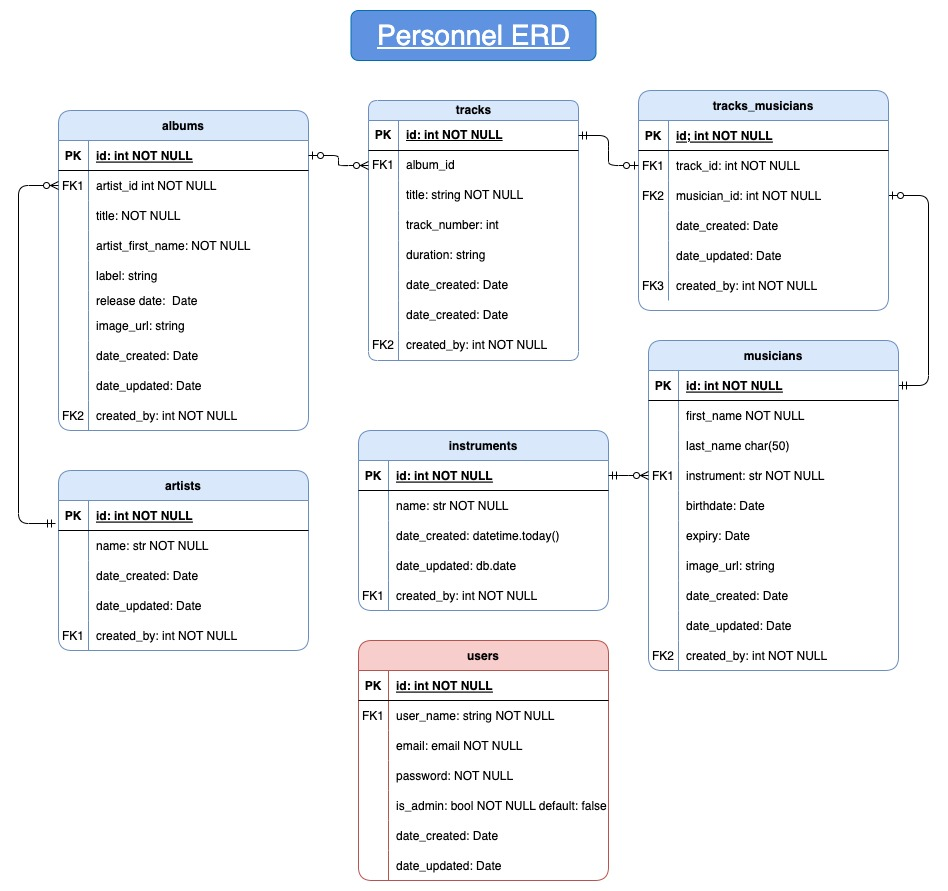
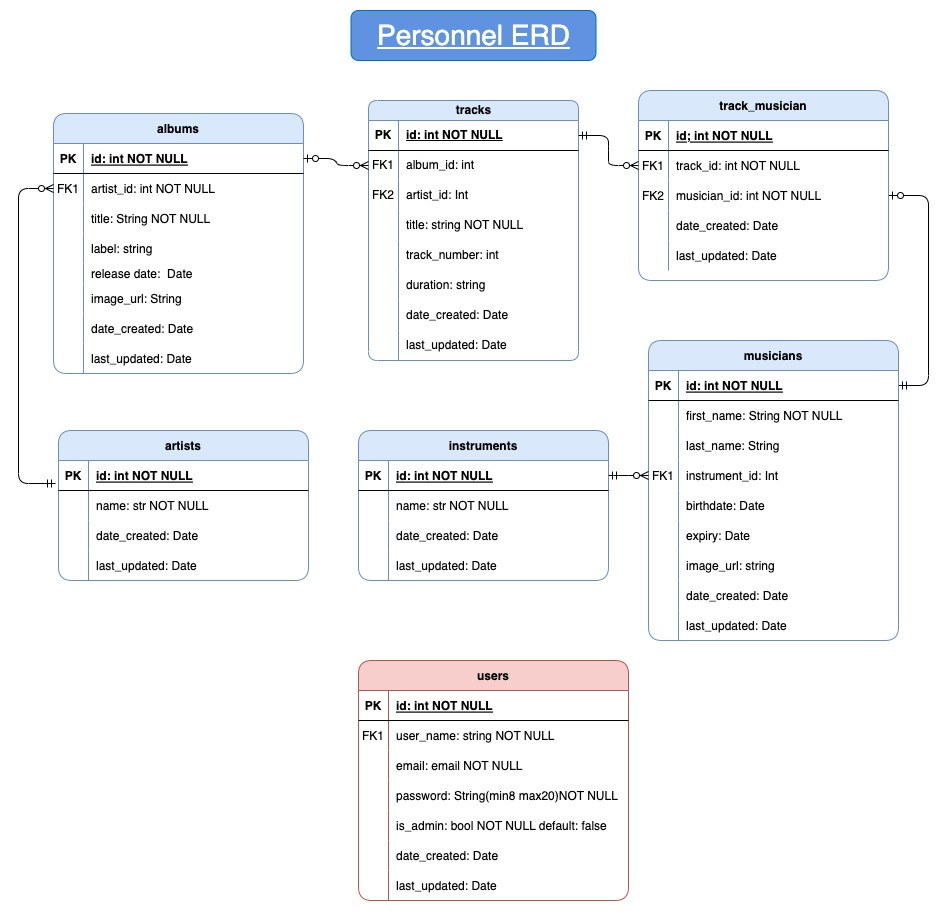
r9 answered

diff --git a/README.md b/README.md
@@ -1,26 +1,29 @@
-
 # **PesonnelAPI**
+
 ## README.md
+
 </br>
 
 ![Record Store by Mick Haupt](./docs/mick-haupt-CbNBjnXXhNg-unsplash.jpg)
-##### *Photo by Mick Haupt (unsplash)*  
+
+##### _Photo by Mick Haupt (unsplash)_
 
 </br>
 
 ### **Contents:**
-1. [Quickstart](#Quickstart)
-1. [Project Purpose](#Project-Purpose-(R1,-R2))
-1. [Why PostgreSQL (R3)](#Why-PostgreSQL-(R3))
-1. [ORM: Benefits and functionality (R4)](#ORM:-Benefits-and-functionality-(R4))
-1. [Endpoints (R5)](#Endpoints-(R5))
-1. [ERD (R6)](#ERD-(R6))
-1. [Third Party Services (R7)](#Third-Party-Services-(R7))
-1. [Project Models (R8)](Project-Models-(R8))
-1. [Database Relations (R9)](Database-Relations-(R9))
-1. [Project Management (R8)](Project-Management-(R10))
 
-### ***Links:***
+1. [Quickstart](#Quickstart)
+1. [Project Purpose (R1, R2)](<#Project-Purpose-(R1,-R2)>)
+1. [Why PostgreSQL (R3)](<#Why-PostgreSQL-(R3)>)
+1. [ORM: Benefits and functionality (R4)](<#ORM:-Benefits-and-functionality-(R4)>)
+1. [Endpoints (R5)](<#Endpoints-(R5)>)
+1. [ERD (R6)](<#ERD-(R6)>)
+1. [Third Party Services (R7)](<#Third-Party-Services-(R7)>)
+1. [Project Models (R8)](<Project-Models-(R8)>)
+1. [Database Relations (R9)](<Database-Relations-(R9)>)
+1. [Project Management (R10)](<Project-Management-(R10)>)
+
+### **Links:**
 
 - #### [Github Repository](https://github.com/bccbass/PersonnelAPI)
 - #### [Trello Project Management](https://trello.com/invite/b/VWm2omOk/ATTI837dd0d277594dd006695995cdfdac5787BC1FFE/personnel-api)
@@ -28,151 +31,158 @@
 
 </br>
 
-
-## ***Quickstart***  
+## **_Quickstart_**
 
 1. Open a new terminal window, run PSQL and create a new PostgreSQL database entitled `personnel`:
-    ```psql
-    ~psql
-    CREATE DATABASE personnel;
-    ```
+   ```psql
+   ~psql
+   CREATE DATABASE personnel;
+   ```
 2. Connect to the new database:
-    ```psql
-    \c personnel
-    ```
+   ```psql
+   \c personnel
+   ```
 3. Create a New User, set a Password and grant all privileges:
-    ```psql
-    CREATE USER <user> WITH PASSWORD <password>;
 
-    GRANT ALL PRIVILEGES ON <database_name> TO <user>;
-    ```
-4. In the main project directory create a ```.env``` file using ```.env.sample```  as a template. 
-    - The Database URI should be formatted as ```Database+adapter://<user>:<password>@<host name>:<port>/<database>```
-        
-        eg: ```
-        DATABASE_URI='postgresql+psycopg2://<YOUR_USER_NAME>:<YOUR_USER_PASSWORD>@localhost:5432/personnel'```
-    - The JWT Secret sould be something secure. 
-        - Hint:
-        generate secret code in the terminal:
-        ```
-            # $ python3 -c 'import secrets; print(secrets.token_hex())'
-        ```
-5. You should now be able to run the bash script from the terminal to create a .venv folder, install requirements, set up the database tables and seed them with sample date: 
-    ```
-    $ bash create_and_seed.sh
-    ```
+   ```psql
+   CREATE USER <user> WITH PASSWORD <password>;
+
+   GRANT ALL PRIVILEGES ON <database_name> TO <user>;
+   ```
+
+4. In the main project directory create a `.env` file using `.env.sample` as a template.
+   - The Database URI should be formatted as `Database+adapter://<user>:<password>@<host name>:<port>/<database>`
+     eg: `
+  DATABASE_URI='postgresql+psycopg2://<YOUR_USER_NAME>:<YOUR_USER_PASSWORD>@localhost:5432/personnel'`
+   - The JWT Secret sould be something secure.
+     - Hint:
+       generate secret code in the terminal:
+     ```
+         # $ python3 -c 'import secrets; print(secrets.token_hex())'
+     ```
+5. You should now be able to run the bash script from the terminal to create a .venv folder, install requirements, set up the database tables and seed them with sample date:
+
+   ```
+   $ bash create_and_seed.sh
+   ```
 
 6. Now that the database and project environments are set up, to run the app from the terminal activate the virtual environment:
-    ```
-    $ source .venv/bin/activate
-    ```
-    and run the program:
-    ```
-    $ flask run
-    ```
-</br>
-</br>
+   `    $ source .venv/bin/activate
+   `
+   and run the program:
+   `    $ flask run
+   `
+   </br>
+   </br>
+
 ### **Project Purpose (R1, R2)**
 
 There is currently no centralized database cataloging all the musicians that performed and contributed to recorded albums. While the information can be searched for on the internet it is usually found in disparate places with varying degrees of accuracy. Because the music industry has largely been driven by profit motive with little incentive to document the artistic product being created a great deal of data is either missing or hard to access. It is only with the privilege of hindsight that the cultaral importance of the contributions of the many side musicians has come into light, as can be seen with many books and documentaries(Muscle Shoals(2013), The Wrecking Crew(2014)) illuminating the seledom visited world of supporting session musicians. The App creates a platform to document musical contributions and query the information in many ways, such as discovering all session musicians that peformed on your favorite song, or listing all of the tracks a given musician played on. The Personnel API seeks to address to the problem of a historical lack of addredidation of musical contributions, important to scholarly and cultural research as well as for its role in providing financial compensation for contributing artists and their heirs. The Personnel API seeks to create a rich ecosystem for music fans and scholarly researchers alike to find information about our musical cultural heritage.
 
+</br>  
+</br>
+
+### **Why PostgreSQL (R3)**
+
+PostgreSQL was used for the Personnel API project because it is an extremely robust relational database management system that excels at both small and production level scale. It has over thirty-five years of support and development by an active community with an extensive set of open source tools, libraries and frameworks. PostgreSQL supports many datatypes with approprate validation and constraints for each. PostgerSQL is adept at promoting data integrity and durability, always implementing ACID (Atomicity, Consistency, Isolation, Durability) transactions, write-ahead logging (WAL) and point-in-time recovery. PostgreSQL query language is extremely powerful with near limitless parameters for retrieving records. It also supports advanced view options which can greatly improve database performance for frequent and complicated queries. Because PostgreSQL is primarily designed for SQL databases it promotes well defined relational data structures that are strongly typed, with many optional constraints and validations ensuring data integrity and robustness. Writing data in PostgreSQL is highly performant due to its implementation of multiversion concurrency control (MVCC), faciliating concurrent and frequent write operations. The Personnel API database leverages a relational model with join tables and multiple relational associations making PostgreSQL a clear frontrunner for creating and managing these associations, facilitating querying and manipulating data with complex interacting relationships. The web-like nature of artistic careers, sometimes spanning decades with myriad interwoven interactions pose a huge challenge to model logically, however PostgreSQL excels at managing a dataset that has a tendency towards repetition. Normalization results in a database with no redundant data, promoting data integrity and conservation of resources with regard to both data storage and performance.
+
+Some drawbacks of PostgreSQL compared to other Database Management Systems: It can be more difficult to set up than other frameworks such as MySQL, posing a larger entry barrier for less experienced developers. While it has faster write speeds than MySQL it has much slower read speeds. Because PostgreSQL creates a new system process for each connected user it has much higher memory usage when multiple users are connected, allocating roughly 10mb per connected user. This poses significant resource requirements when scaling for multiple users. In comparison, MySQL uses a single system process which results in extremely efficient perforamance in read-heavy applications. Additionally, compared to a NoSQL DBMS PostgreSQL requires much more planning and modelling at the outset of the project, and poses more challenges to restructure the database should the scope or needs of the project change throughout production. However this issue is less specific to PostgreSQL itself and more in the scope of an SQL vs NoSQL database debate. After comparing other database options PostgreSQL remained the dbms of choice as the ample documentation, efficient write performance and functionality with regard to data integrity, validation and constraints outweighed any potential shortcomings.
 
 </br>  
-</br>  
+</br>
 
-### Why PostgreSQL (R3)
-I chose PostgreSQL for the Personnel API project because it is an extremely robust relational database management system that excels at both small and production level scale. It has over thirty-five years of support and development by an active community with an extensive set of open source tools, libraries and frameworks. PostgreSQL supportas a huge amount of datatypes with approprate validation and constraints for each. PostgerSQL is adept at promoting data integrity and durability, implementing ACID (Atomicity, Consistency, Isolation, Durability) transactions, write-ahead logging (WAL) and point-in-time recovery. PostgreSQL query language is extremely powerful with near limitless parameters for retrieving records. Because PostgreSQL is primarily designed for SQL databases it promotes well defined relational data structures that are strongly typed, with many optional constraints and validations ensuring data integrity and robustness. The Personnel API database leverages a relational model with join tables and multiple relational associations making PostgreSQL a clear forerunner for creating and managing these associations, facilitating querying and manipulating data with complex interacting relationships. The web-like nature of artistic careers and associations that can span decades with abundant overlapping relationships pose a huge challenge to model logically and economically, but PostgreSQL excels at managing a dataset that has a tendency towards duplicate data. After normalization it promotes a database with no redundant data, promoting data integrity and conservative usage of resources with regard to both storage and querying and manipulation of data.
-
-Some drawbacks of PostgreSQL compared to other Database Management Systems are that it is marginally more difficult to set up, and marginally slower compared to some lighter weight frameworks such as MySQL. However with ample documentation and functionality with regard to data integrity, validation and constraints features this seemed like a reasonable tradeoff. Additionally, compared to a NoSQL DBMS PostgreSQL requires much more planning and modelling at the outset of the project, and poses more challenges to restructure the database should the scope or needs of the project change throughout production. However this is less an issue with PostgreSQL itself and more in the scope of an SQL vs NoSQL database debate.
-
-
-</br>  
-</br>  
-
-### ORM: Benefits and functionality (R4)
+### **ORM: Benefits and functionality (R4)**
 
 **Functionality:**
-An Object Relational Mapper (ORM) acts as a layer between a databse and higher level programming languages and framewords such as Python and Flask. Its main functinality is to provide mapping between a chosen database and an object oriented prgramming language, allowing the user to interact with a database converting native classes to tables and objects to database records. The user can implement the full range of CRUD operations within the database in a familiar language, versus incorporating SQL syntax and commands within their code; the ORM then translates these directives into SQL in order to interact with the database more seamlessly. Additionally, querying can accomplished using more familiar syntax, excluding the need to incorporate SQL queries within the codebase. ORMs also provide functionality to construct and manage relationships and associations, automatically connecting related entities and performing integrity checks such as those relating to foreign key constraints without having to manually ensure integrity is enforced. ORMs are generally database agnostic, meaning they can be connected to many different DBMS's, granting a great deal of flexiblity and universality to the database an app interacts with, without having to functionally alter it. Most ORM's( either nativley or through extensions) provide functionality to convert datatypes, including between native datatypes, database datatypes and JSON. They can also offer addtional schema construction as well as data sanitisaztion and validation. Lastly, the ORM provides functionality for creating and constructing transactions by using a session object, giving the user the ability to interact with the database in more complicated ways before commiting any changes to the database by commiting the constructed session object.  
+An Object Relational Mapper (ORM) acts as a layer between a databse and higher level programming languages and framewords such as Python and Flask. Its main functinality is to provide mapping between a chosen database and an object oriented prgramming language, allowing the user to interact with a database using high level language, mapping native datatypes to database tables and records (and vice-versa) effortlessly. The user can implement the full range of CRUD operations within the database in a familiar language, versus incorporating SQL syntax and commands within their code; the ORM then translates these directives into SQL in order to interact with the database more seamlessly. Additionally, querying can be accomplished using more familiar syntax, excluding the need to incorporate SQL queries within the codebase. ORMs also provide functionality to construct and manage relationships and associations, automatically connecting related entities and performing integrity checks, such as those relating to foreign key constraints, without having to manually ensure integrity is enforced. ORMs are generally database agnostic, meaning they can be connected to many different DBMS's, granting flexiblity and universality to choosing the database an app interacts with. Most ORM's (either nativley or through extensions such as Marshmallow for Flask) allow for functionality to convert datatypes, including between native datatypes, database datatypes and JSON. In the case of Flask-Marshmallow, addtional schema construction and extended data sanitisaztion and validation offer indispensiple functionality. Lastly, the ORM allows for creating and constructing transactions by using a session object, giving the user the ability to interact with the database in more complicated and sequential ways before making changes to the database by commiting the constructed session object.
 
-**Benefits:** ORMs are essential to interacting with databases on the application level. They allow the developer to forego including SQL or other targeted database syntax into their code. Using higher level language to interact with a database saves time in development and creates a more streamlined codebase. Constructing a databases tables, with defined constraints can be accomplished using an Object Oriented Approach, allowing for easy DDL that can be updated or changed at the application level, foregoing the need to directly interact with the database to define tables. Querying can also be accomplished with language more familiar to the high level programming language, foregoing the need to learn, understand and implement the more specified language of database queries, such as those found in SQL. ORMs provide a great deal of functionality with conversion of datatypes, allowing for datatypes to be converted between queries and commits with out ,much consideration necessary by the developer, eliminating the need to manually convert datatypes constantly. Relationships and associations can be accomplished with very little effort, providing huge payoffs with functionality, eliminating the need for continally defining or querying related records. These nested records can further be configured by implementing Schemas (either natively or through extensions such as Marshmallow). Using schemas can also be extremely powerful with regard to validating and sanitizing user information before commiting to the database, further enabling data integrity.
-
-
-</br>  
-</br>  
-
-### **Endpoints (R5)**  
-
-***[See API-Endpoints.md](./API-Endpoints.md)***
-
-
+**Benefits:** ORMs are essential to interacting with databases on the application level. They allow the developer to forego including SQL or other targeted database syntax into their code. Using higher level language to interact with a database saves time in development and creates a more streamlined codebase. Constructing databases tables can be accomplished using an Object Oriented Approach, definining constraints and allowing for easy DDL that can be updated or changed at the application level. Querying can also be accomplished with language more familiar to the high level programming language, foregoing the need to include and implement a more specified database language such as SQL. ORMs provide a great deal of functionality with conversion of datatypes, allowing for datatypes to be converted between queries and commits without much hassle, eliminating the need to frequently convert datatypes manually. Relationships and associations can be accomplished with very little effort, providing huge payoffs with functionality, eliminating the need for continally defining or querying related records. These nested records can further be configured by implementing Schemas (either natively or through extensions such as Marshmallow). Schemas are also a great way to control what elements of a record are returned to a user, and allow the developer to create different schemas for the same table to apply to different scenarios. Additionally, schemas can be extremely powerful with regard to validating and sanitizing user information before commiting to the database, further enhancing data integrity.
 
 </br>  
+</br>
+
+### **Endpoints (R5)**
+
+**_[See API-Endpoints.md](./API-Endpoints.md)_**
+
 </br>  
+</br>
 
 ### **ERD (R6)**
+
 ![Personnel ERD](./docs/Personnel_ERD.jpg)
 
-
 </br>  
-</br>  
+</br>
 
 ### **Third Party Services (R7)**
 
-     
-- [**Flask-Bcrypt**](https://flask-bcrypt.readthedocs.io/en/1.0.1/ )  
-    Implemented for Password hashing. Bcrypt is designed to be 'de-optimized', making it much more difficult to crack with the prevalence of powerful modern hardware. 
-
-
+- [**Flask-Bcrypt**](https://flask-bcrypt.readthedocs.io/en/1.0.1/)  
+   Implemented for Password hashing. Bcrypt is designed to be 'de-optimized', making it much more difficult to crack with the prevalence of powerful modern hardware. Hashed passwords were then decoded using UTF-8, which is industry standard practice.
 
 - [**Flask**](https://flask.palletsprojects.com/en/2.3.x/)  
-    Flask is a lightweight Python web framework and is the context our app is created in. It is implemented primarily to handle HTTP request/response cycles, routing, accepting user data in teh form of JSON to be handled and stored in the database, or serving JSON responses from https requests.   
+   Flask is a lightweight Python web framework and is the main frameword our app is created in, helping to create models and controllers for the API. It is implemented primarily to handle HTTP request/response cycles, routing, accepting user data in the form of JSON to write to the database, ands serving JSON responses constructed from database records.
 
-      
-
-
-- [**Flask-JWT-Extended**](https://flask-jwt-extended.readthedocs.io/en/stable/) 
-    JWT was implemented to create and manage JWT tokens, aiding functionality for authentication. Its primary uses are for token managemnt, creating bearer tokens and authenticating bearer tokens. 
-
+- [**Flask-JWT-Extended**](https://flask-jwt-extended.readthedocs.io/en/stable/)
+  JWT was implemented to create and manage JWT tokens, aiding functionality for authentication and authorization. Its primary uses are for token managemnt, creating and authenticating bearer tokens.
 
 - [**Flask-SQLAlchemy**](https://flask-sqlalchemy.palletsprojects.com/en/3.0.x/)  
-    Implemented as an Object Relational Mapper (ORM) to facilitate interacting with a PostgreSQL database. 
-    
+   Implemented as an Object Relational Mapper (ORM) to interact with the PostgreSQL database. SQLAlchemy allows the user to interact with a database using native datatypes and high level language, creating seamless database integration into the project and eliminating the need to write SQL commands within the codebase. This has the advantage of saving development time and streamlining the codebase.
 
 - [**Flask-Marshmallow**](https://flask-marshmallow.readthedocs.io/en/latest/)  
-    Flask-Marshmallow was used to serialize/deserialize objects between python and the database, as well as converting python objects to JSON for HTTP responses. It is also used heavily in constructing model schemas and user input validation/sanitization.
-    
+   Flask-Marshmallow was used to serialize/deserialize objects between python and the database, as well as converting python objects to JSON for HTTP responses. It is also used heavily in constructing model schemas and user input validation/sanitization.
 
 - [**PostgreSQL**](https://www.postgresql.org)  
-    The relational database used for the Personnel App is PostgreSQL.  
-    
+   PostgreSQL was the RDBMS implemented for the API. It is a robust, open-source database with great support and features. There are also extensive frameworks and libraries available to easily integrate it into many project environments.
 
-- [**Pyscopg2-binary**](https://pypi.org/project/psycopg2/)   
-    SQLAlchemy is database agnostic so an adaptor must be implemented as a utility to connect it to the PostgreSQL database.  
-    
+- [**Pyscopg2-binary**](https://pypi.org/project/psycopg2/)  
+   SQLAlchemy is database agnostic so an adaptor must be implemented as a utility to connect it to the PostgreSQL database.
 
-- [**Python-dotenv**](https://pypi.org/project/python-dotenv/)   
-    Python-dotenv reads key-value pairs from the .env file, allowing the app to access this data through the environ module. This helps to encapsulate sensitive information, protecting the integrity of the app from malicious actors.  
-    
+- [**Python-dotenv**](https://pypi.org/project/python-dotenv/)  
+   Python-dotenv reads key-value pairs from the .env file, allowing the app to access this data through the environ module. This helps to encapsulate sensitive information, protecting the integrity of the app from malicious actors.
 
 </br>
 </br>
 
 ### **Project Models (R8)**
 
+FLASK
 </br>
 </br>
-
-
-
 
 ### **Database Relations (R9)**
 
-</br>
-</br>
+Modelling the complex and weblike interactions of session musicians and the recordings to which they have contributed over careers that often span decades poses many unique challenges. It required a great deal of consideration to construct a database structure that was logical and normalized but allowed room for the organic and serpentine nature of the data being recorded. The models were constructed in a hierarchical manner, nesting each progressive entity via a primary/foreign key relationship. There was one many-to-many relationship tracked, joining musicians who could perform on a song with the many songs they contributed to. The spirit of the hierarchy is: artists _have_ albums _that have_ tracks _that have_ musicians _who are associated with an_ instrument.
+
+- Artist:  
+  ![artist-model](./docs/models/artists-model.png)  
+  The artist model stores the artist, ensemble or band that an album is recorded by. As the scope of the API is primarily focused on the session musicians involved, and general information about most recording artists is readly available, this model is light on extra data. It should be noted that session musicans can also be artists, and in this instance they would be seperate entities as the roles of artist and musician are purposefully bifurcated for this context. This can be seen in the case of `"Davis, Miles"` the artist and `"Miles Davis"` the trumpeter. The artist model is an entity with ownership of a recorded album (think of bands, ensembles, symphony orchestras), so in this instance there is an implicit role coercion of a musician who has released albums under their own name to an artist entity. This was necessary as can be seen by examining the converse scenario: The Rolling Stones or the New York Philharmonic could not be classified as musicians within this database model. Additionally, because the Musician model stores data that is more pertinent to an indivudal human being the decision was made to create these seperate entities as their functions within the music industry were so different.
+
+- Album:  
+  ![album-model](./docs/models/albums-model.png)  
+  Albums are associated with artists in a one-to-many relationship. An artist can have many albums but an album can have only one artist. The album model is a store for an associated artists primary key, the album title, release date, and other data that might be useful in filtering and constructing queries in meaningful ways.
+- Track:  
+  ![track-model](./docs/models/tracks-model.png)  
+  Tracks are related to artists in a one to many relationship: A track can have one artist, but an artist can have many tracks, so artist_id is a foreign key. The second foreign key for the track model is album_id; an album can have many tracks, but a track is only on one album. Explicitly tracking these associated models (artists and albums), as opposed to letting the hierarchaical nesting take care of these associations was necessary to cover the use-case of compilation albums where the album may be under one artists name but be comprised of tracks from multiple artists (e.g. Jimmy Cliff _The Harder They Come Sountrack_). Furthermore, tracks are not obligated to be associated with an album but can still have an artist, so depending on this hierarchy to populate artist data breaks down in this scenario (An increasingly common use-case since so many artists are self releasing singles on platforms like soundcloud or Spotify which are not associated with albums).
+- Track_musician:  
+  ![track_musician-model](./docs/models/track_musician-model.png)  
+  The track_musician model serves as the association table to bridge the many-to-many relationship between tracks and the session musicians who contributed to the track. As this relationship comprises the core mission statement of the Personnel API it is the lynchpin of the entire database structure. Each track_musician record associates a given session musician with a track to which they contributed: if a track has 6 musicians playing on it, it will require 6 track_musician records to join these associations within the database. The two main keys on the track_musician model store the primary key associated with a track and a musician to form this join relationship.
+
+- Musician:  
+  ![musician-model](./docs/models/musicians-model.png)  
+  The musician model has a one to one relationship with the track_musician model and also with the instrument model. It stores a larger amount of personal information relating to each session musician, including birth and death dates, img url, full name and associated instrument.
+
+- Instrument:  
+  ![instrument-model](./docs/models/instruments-model.png)  
+  The instrument model serves to store the instruments associated with musicians. Although it is a relatively simple table in its current state, it is imperative to keeping the database normalized. The instrument association works like a 'tag' to associate an instrument to a musician. In the future, this feature could be stretched to a many-to-many relationship; many musicians play multiple instruments. Although this would be a more lifelike data model, for the scope of this project a many-to-one relationship was a necessary accomodation.
+
+- User:  
+  ![user-model](./docs/models/users-model.png)  
+  Finally, the user model serves primarily to implement authentication and authorization. As the API seeks to create a historical record of a facet of the recording industry, creating user-ownership over records did not seem necessary. However, as the API is structured for the public facing side to be primarily read only, with the collection and writing of data falling to devs or administrators, the user model is crucial in defining and enforcing those roles.
+  </br>
+  </br>
 
 ### **Project Management (R10)**
 
 </br>
 </br>
-
-
